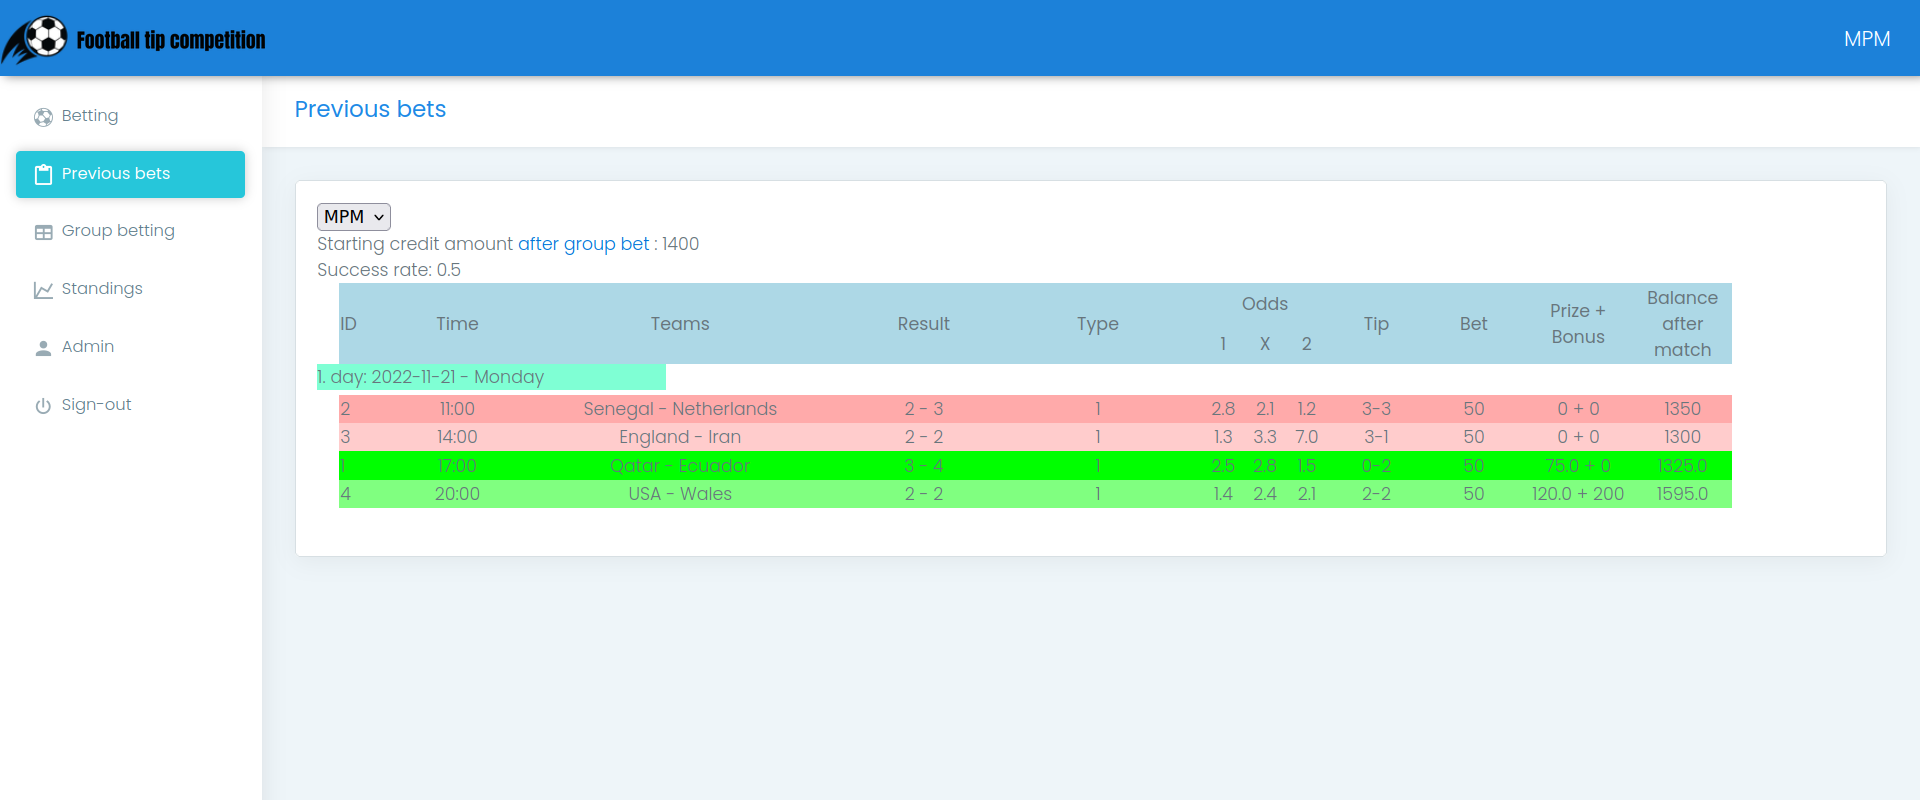
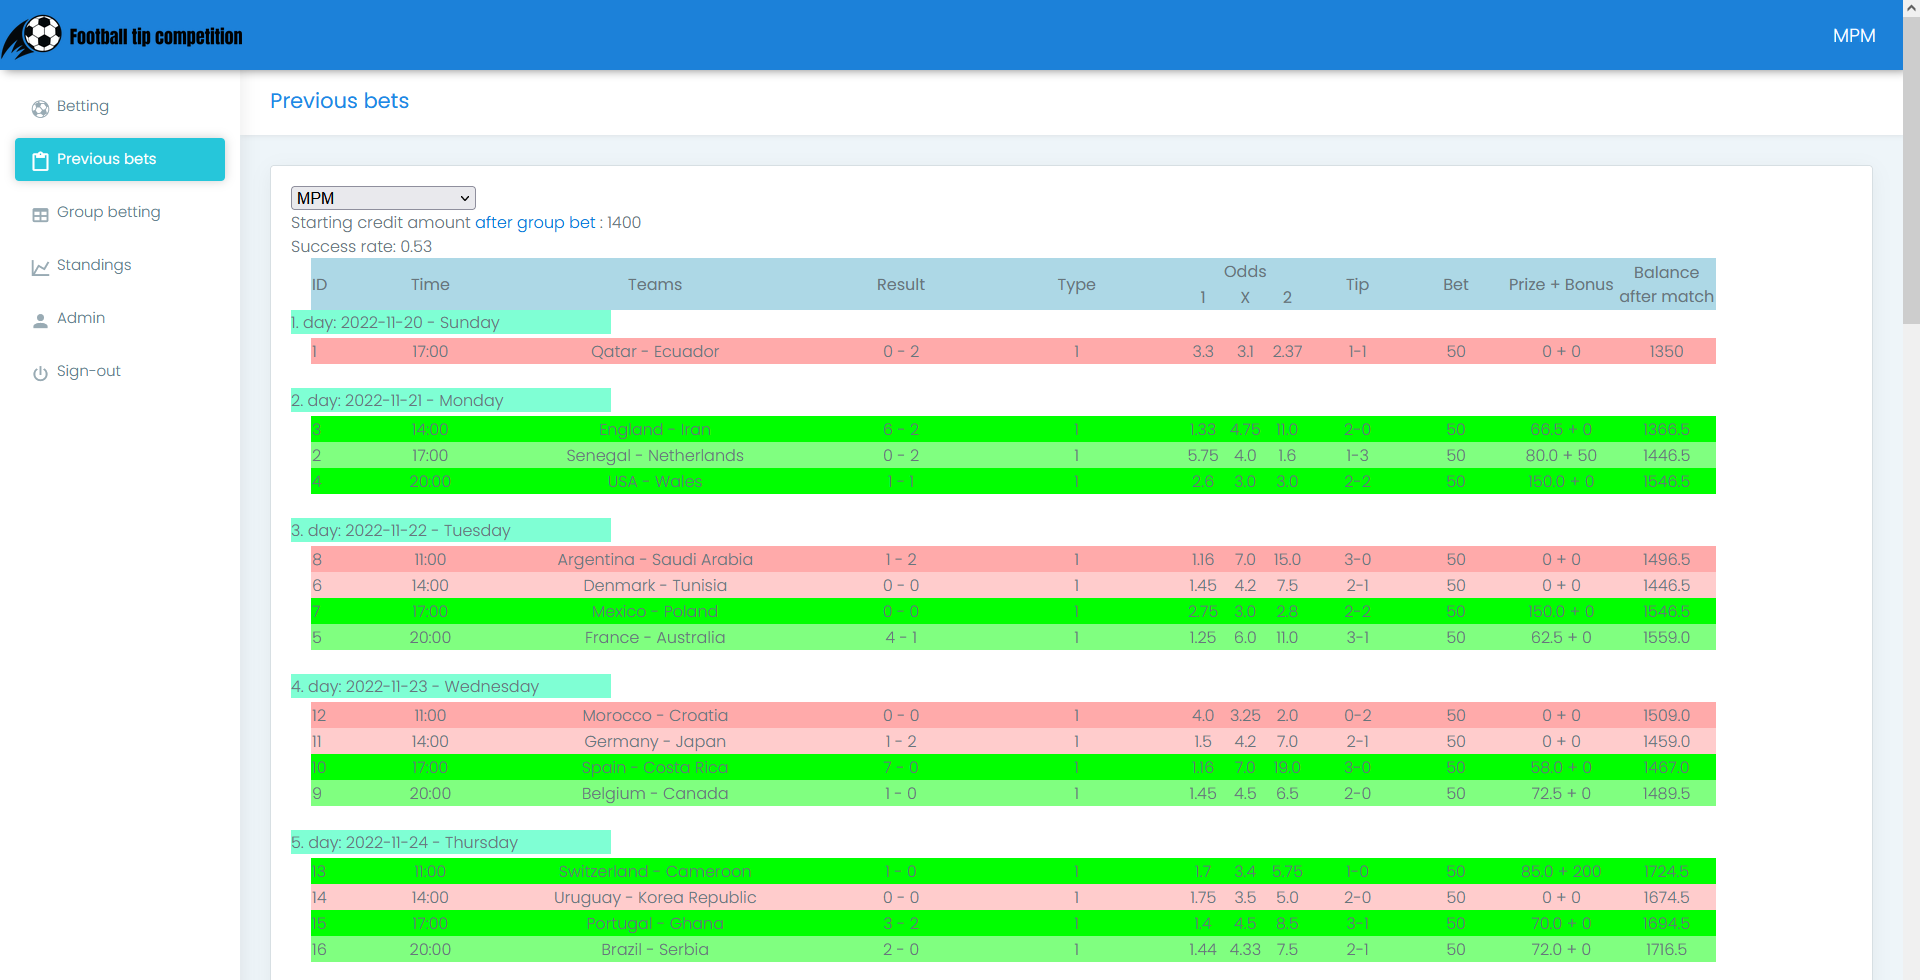
Fixing typos, minor convenience problems + ReadMe

diff --git a/app/templates/hu/auth/login.html b/app/templates/hu/auth/login.html
@@ -1,6 +1,6 @@
 {% extends "hu/layouts/base-unsigned.html" %}
 
-{% block title %} Bejelenkezés {% endblock %} 
+{% block title %} Bejelentkezés {% endblock %} 
 
 <!-- Plugins CSS goes HERE  -->
 {% block plugin_stylesheets %}{% endblock plugin_stylesheets %}
@@ -13,7 +13,7 @@
     <div class="container-fluid">
         <div class="row page-titles">
             <div class="col-md-5 col-8 align-self-center">
-                <h3 class="text-themecolor m-b-0 m-t-0">Bejelenkezés</h3>
+                <h3 class="text-themecolor m-b-0 m-t-0">Bejelentkezés</h3>
             </div>
         </div>
         <div class="row">

diff --git a/app/templates/en/group-bet/group-choose.html b/app/templates/en/group-bet/group-choose.html
@@ -23,7 +23,7 @@
                         
                         <select name="players" id="players">
                             {% for player in players %}
-                            <option value="{{player["username"]}}" {% if player["username"] == username %} selected="selected" {% endif %}>{{player["username"]}}</option>
+                            <option value="{{player["username"]}}" {% if player["username"] == g.user.username %} selected="selected" {% endif %}>{{player["username"]}}</option>
                             {% endfor %}
                         </select>
 

diff --git a/app/templates/en/previous-bet/previous-bets.html b/app/templates/en/previous-bet/previous-bets.html
@@ -22,7 +22,7 @@
                         
                         <select name="players" id="players">
                             {% for player in players %}
-                            <option value="{{player["username"]}}" {% if player["username"] == username %} selected="selected" {% endif %}>{{player["username"]}}</option>
+                            <option value="{{player["username"]}}" {% if player["username"] == g.user.username %} selected="selected" {% endif %}>{{player["username"]}}</option>
                             {% endfor %}
                         </select>
 

diff --git a/app/templates/hu/group-bet/group-choose.html b/app/templates/hu/group-bet/group-choose.html
@@ -23,7 +23,7 @@
                         
                         <select name="players" id="players">
                             {% for player in players %}
-                            <option value="{{player["username"]}}" {% if player["username"] == username %} selected="selected" {% endif %}>{{player["username"]}}</option>
+                            <option value="{{player["username"]}}" {% if player["username"] == g.user.username %} selected="selected" {% endif %}>{{player["username"]}}</option>
                             {% endfor %}
                         </select>
 

diff --git a/app/templates/hu/previous-bet/previous-bets.html b/app/templates/hu/previous-bet/previous-bets.html
@@ -22,7 +22,7 @@
                         
                         <select name="players" id="players">
                             {% for player in players %}
-                            <option value="{{player["username"]}}" {% if player["username"] == username %} selected="selected" {% endif %}>{{player["username"]}}</option>
+                            <option value="{{player["username"]}}" {% if player["username"] == g.user.username %} selected="selected" {% endif %}>{{player["username"]}}</option>
                             {% endfor %}
                         </select>
 

diff --git a/app/templates/hu/auth/register-fail.html b/app/templates/hu/auth/register-fail.html
@@ -14,7 +14,7 @@
     <div class="container-fluid">
         <div class="row page-titles">
             <div class="col-md-5 col-8 align-self-center">
-                <h3 class="text-themecolor m-b-0 m-t-0">Bejelenkezés</h3>
+                <h3 class="text-themecolor m-b-0 m-t-0">Bejelentkezés</h3>
             </div>
         </div>
         <div class="row">

diff --git a/app/templates/en/auth/login.html b/app/templates/en/auth/login.html
@@ -1,6 +1,6 @@
-{% extends "hu/layouts/base-unsigned.html" %}
+{% extends "en/layouts/base-unsigned.html" %}
 
-{% block title %} Bejelenkezés {% endblock %} 
+{% block title %} Sign-in {% endblock %} 
 
 <!-- Plugins CSS goes HERE  -->
 {% block plugin_stylesheets %}{% endblock plugin_stylesheets %}

diff --git a/app/previous_bets.py b/app/previous_bets.py
@@ -147,7 +147,7 @@ def prev_bets():
             day_date_object = datetime.strptime(day.date, '%Y-%m-%d')
 
             #if checked day is group evaulation date than add group win amount at end
-            if day_date_object.date() == group_evaluation_time_object.date():
+            if utc_now > group_evaluation_time_object and day_date_object.date() == group_evaluation_time_object.date():
                 amount += group_bonus
                 balance_after_group = amount
 
@@ -173,7 +173,7 @@ def prev_bets():
 
     # if no user name provided send down the username list and render the base page
     cursor = get_db().cursor()
-    cursor.execute('SELECT username FROM bet_user WHERE NOT username=\'RESULT\'', ())
+    cursor.execute('SELECT username FROM bet_user WHERE NOT username=\'RESULT\' ORDER BY username ASC', ())
     players = cursor.fetchall()
 
     return render_template(g.user['language'] + '/previous-bet/previous-bets.html', players=players)

diff --git a/app/database_manager.py b/app/database_manager.py
@@ -70,19 +70,18 @@ def download_data_csv():
 
             goals = row[7]
             if goals is not None and goals != '':
+                goals = goals.replace(" ", "")
+                
                 goals.split("-")
-        
-                for goal in goals:
-                    goal.replace(" ", "")
 
-                goal1 = goal[0]
-                goal2 = goal[1]
+                goal1 = goals[0]
+                goal2 = goals[2]
 
             get_db().cursor().execute("UPDATE match SET team1=%s, team2=%s, goal1=%s, goal2=%s WHERE id=%s", (row[4], row[5], goal1, goal2, row[0]))
         
         get_db().commit()
     except:
-        print("Error updating matches.da")
+        print("Error updating match database.")
         return False
 
     return True

diff --git a/app/tools/score_calculator.py b/app/tools/score_calculator.py
@@ -135,10 +135,13 @@ def get_daily_points_by_current_time(user_name):
     day_prefabs = []
 
     cursor = get_db().cursor()
-    cursor.execute('SELECT * FROM match WHERE time::date < %s::date', (utc_now.strftime('%Y-%m-%d %H:%M'),))
+    cursor.execute('SELECT * FROM match WHERE time::timestamp < %s::timestamp', (utc_now.strftime('%Y-%m-%d %H:%M'),))
 
     # get matches which has been started by current time
     for match in cursor.fetchall():
+        if match['goal1'] is None or match['goal2'] is None:
+            continue
+
         match_time_utc = datetime.strptime(match['time'], '%Y-%m-%d %H:%M')
         match_time_utc = match_time_utc.replace(tzinfo=tz.gettz('UTC'))
 

diff --git a/app/group_bet.py b/app/group_bet.py
@@ -161,7 +161,7 @@ def during_groupstage():
         return render_template(g.user['language'] + '/group-bet/group-during.html', groups=groups, final_bet=final_bet_object, amount_after=amount_after, starting_bet_amount=starting_bet_amount)
     
     cursor = get_db().cursor()
-    cursor.execute('SELECT username FROM bet_user WHERE NOT username=\'RESULT\'', ())
+    cursor.execute('SELECT username FROM bet_user WHERE NOT username=\'RESULT\' ORDER BY username ASC', ())
     players = cursor.fetchall()
 
     return render_template(g.user['language'] + '/group-bet/group-choose.html', players=players)

diff --git a/ReadMe.md b/ReadMe.md
@@ -24,8 +24,9 @@ Firstly the user has to specify the results of the group stage. The reward will 
 
 The winning multiplier for a specific group betting can be determined this way:
 
-* 0× if zero or only one position was guessed right
-* 2× if two positions were guessed right
+* 0× if zero positions were guessed right
+* 1.5× if one position was guessed right
+* 2.5× if two positions were guessed right
 * 4× if every position was guessed right
 
 ### Final result bet
@@ -93,6 +94,8 @@ At the end of match days users can recieve the current standing of the game if t
 
 The application automatically updates its result database after every match (but the update can be invoked manually too).
 
+Note: the [self-hosted](#self-hosting) apache solution does not support these features yet.
+
 ### Additional scopes for the admins
 This section only appears for admins they have permission to do this additional tasks:
 
@@ -105,22 +108,10 @@ This section only appears for admins they have permission to do this additional 
 ## Hosting
 The application (probably) can be hosted on any service which has Flask support.
 
-This ReadMe presents you two techniques: [Heroku](https://heroku.com/) and self-hosting.
-
-### Heroku
-
-A [detailed guide](https://devcenter.heroku.com/articles/getting-started-with-python?singlepage=true) can be found here how to setup Heroku properly.
-
-Summarizing the steps:
-* Create a Heroku account and then create a project for it, then create an app inside the project
-* Install [heroku-cli](https://devcenter.heroku.com/articles/heroku-cli), this tool acts as the command-line tool for the remote hosting server
-* Checkout a new branch locally which will be pushed for Heroku and make this branch track the project branch and then push it to the Heroku remote
-* Then scale the app to start it
-
-If the repository is broken then it can be wiped with [heroku repo plugin](https://github.com/heroku/heroku-repo).
+This ReadMe presents you two techniques: self-hosting and [Heroku](https://heroku.com/) .
 
 ### Self-hosting
-First clone your app to a place where the server has read/write permissions like the intended `/var/www/`,
+First clone your app to a place where the server has read/write permissions like the intended `/var/www/` (write permission is needed for saving [email tokens](#email-sending) and for saving uploaded [initialization files](#team-description-files)).
 
 To prevent package-collision problems it is suggested to create new a [conda](https://docs.conda.io/projects/conda/en/latest/index.html) environemnt. After cloning the project activate the new environment and install the dependencies:
 
@@ -143,7 +134,7 @@ While Flask's own server is suitable for developing the application, later it be
 
 The next step is to open the apache configuration file for your site (the default is /etc/apache2/sites-enabled/000-default.conf) then configure and add the following lines:
 
-    WSGIDaemonProcess betting python-path=/path/to/miniconda3/envs/%env_name%/lib/python3.x/site-packages locale='C.UTF-8'
+    WSGIDaemonProcess betting python-path=/path/to/miniconda3/envs/%env_name%/lib/python3.x/site-packages locale='C.UTF-8' threads=15 maximum-requests=20000
     WSGIScriptAlias / /path/to/BettingApp.wsgi
     WSGIProcessGroup betting
 	WSGIApplicationGroup %{GLOBAL}
@@ -180,6 +171,20 @@ Lastly the project configuration variables [have to be specifed](#setting-up).
 
 </details>
 
+### Heroku
+
+Unfortunately, during development, Heroku terminated the free hobby tier which means the project now can be hosted for only for a given amount of money. By the nature of this project, it only needs to be operated for only 3-4 weeks, so it is a bit overkill to subscribe for a monthly fixed price plan.
+
+A [detailed guide](https://devcenter.heroku.com/articles/getting-started-with-python?singlepage=true) can be found here how to setup Heroku properly.
+
+Summarizing the steps:
+* Create a Heroku account and then create a project for it, then create an app inside the project
+* Install [heroku-cli](https://devcenter.heroku.com/articles/heroku-cli), this tool acts as the command-line tool for the remote hosting server
+* Checkout a new branch locally which will be pushed for Heroku and make this branch track the project branch and then push it to the Heroku remote
+* Then scale the app to start it
+
+If the repository is broken then it can be wiped with [heroku repo plugin](https://github.com/heroku/heroku-repo).
+
 ## Setting up
 
 ### Fixture note
@@ -196,16 +201,16 @@ Heroku provides [PostgreSQL support](https://devcenter.heroku.com/articles/herok
 
 The linked guide also describes how to set up a database for your local machine.
 
-<!--heroku pg:backups:schedule DATABASE_URL --at '02:00 America/Los_Angeles' --app sush-->
+You can also create backups of the database with `pg_dump` and it is also possilbe to schedule creating backups with Heroku.
 
 ### Configuration variables
 Before first launching the applicication the [project](./app/configuration.py) variables have to be specified. All of them has an explanation.
 
 The default solution is to read them out from the environment variables this is solved differently for the various hosting options:
 
-* for Heroku you have to specify the correct key-value pairs in the Config Vars section
 * for the development Flask server specify them in the OSVARIABLES.sh bash script and execute it with `". OSVARIABLES.sh"`
-* for Apache2 self-hosting method there is no elegant solution as you cannot pass environment variables to it so the easiest way to solve this is by editting the `configuration_container.py` script
+* for the self-hosted Apache2 you can pass variables with the [BettingApp.wsgi](./BettingApp.wsgi) file
+* for Heroku you have to specify the correct key-value pairs in the Config Vars section
 
 After the configuration happened initialize the app with the following command:
 
@@ -236,9 +241,9 @@ The fields for this are the following:
 
 ### Email sending 
 
-<!--The email sending is implemented with the Google API. First you have to create an account and a cloud project.-->
+The email sending is implemented with the [Google API](https://developers.google.com/gmail/api/quickstart/python). First you have to create an account and a cloud project.
 
-This section will be updated.
+The process of setting up email sending is specified in [this source](./app/gmail_handler.py) file
 
 <!--To manually launch the automated reminders:
 
@@ -247,8 +252,6 @@ To immidiately send the standings (if it wasn't send due to some error):
 
 To start scheduling (if app was rebooted midday)
 * python -m flask checker-manual-->
-
-<!-- GMAIL API Token key os.environ[] read at only startup or at retrieving?-->
 
 ### Translation
 
@@ -261,13 +264,14 @@ I'm really bad at frontend so I used an existing template. The parts which I des
 The language system should be rewritten as the templating capabilites are not utilized properly, the whole html templates are copied instead of passing the proper translation strings into the templates.
 
 ## TO-DO
-* New language system (flaskbabel?)
+* Solve scheduling with apache2 (+test with heroku, but this is not important)
+* Test manually initiating: database update + sending reminder
+* Add result editing feature
+* Show group results at previous section after admin has set the results of them (currently it's timed)
+* Replace current html text string resources to sophisticated ones (both hu/en)
+* New language system (flaskbabel?) or create common template for every lang and specify string resources in seperate files for diff languages
 * New frontend + mobile view (+ delete unnecessary css + js files)
 * Logging
-
-* How to backup POSTGRES database
-* Check if flaskscheduler works with Heroku
-* Gmail API description + test + option to turn off emailing 
 
 ## License
 The frontend part is based on the [Jinja Material Lite](https://github.com/app-generator/jinja-materialpro-lite) project which has [MIT license](https://github.com/app-generator/jinja-materialpro-lite/blob/master/LICENSE.md), my project meets these requirements.
